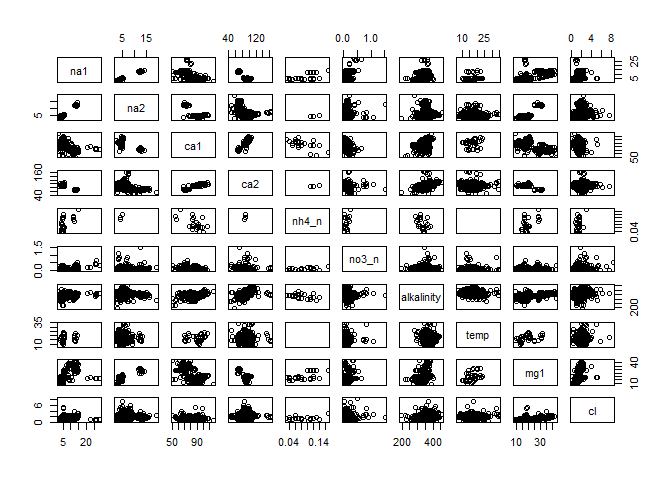
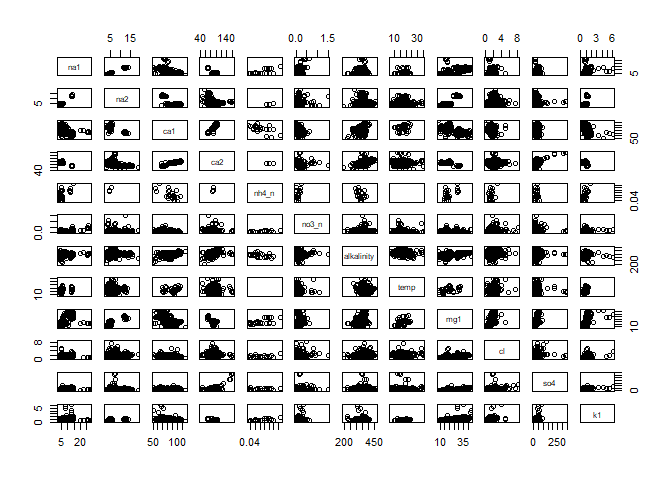
made histograms

Changed region(s): [[0.0312, 0.0625, 0.9688, 0.9375], [0.9375, 0.4688, 0.9688, 0.5]]

diff --git a/R_course_github.md b/R_course_github.md
@@ -279,7 +279,7 @@ names(kgw_chem)
 
 ``` r
 kgw_chem_subset <- kgw_chem %>% 
-  dplyr::select(na1, na2, ca1, ca2, nh4_n, no3_n, alkalinity, temp, mg1, cl)
+  dplyr::select(na1, na2, ca1, ca2, nh4_n, no3_n, alkalinity, temp, mg1, cl, so4, k1)
 ```
 
 cross plot
@@ -416,4 +416,18 @@ We can draw a few basic conclusions from the stats we have just
 generated. One is that for all analytes except ba, the median values are
 smaller than the mean values. This indicates a right skewed or positive
 skewed distribution. This is very common with environmental data, and
-water quality data in particular.
+water quality data in particular. Below I’ll start explicitly evaulating
+the data distribution, starting with Shapiro-Wilkes
+
+``` r
+# Before Shapiro-Wikes, I want to generate histograms for all analytes
+par(mfrow=c(3,4))
+
+for(i in 1:ncol(kgw_chem_subset)) {
+
+  hist(unlist(kgw_chem_subset[,i]), na.rm = TRUE, main = "", xlab=colnames(kgw_chem_subset[i]))
+
+}
+```
+
+![](R_course_github_files/figure-gfm/unnamed-chunk-14-1.png)<!-- -->
